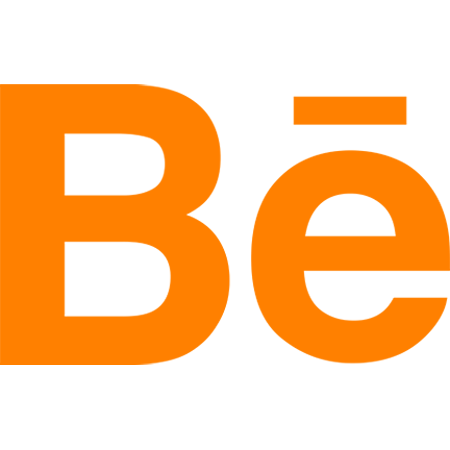
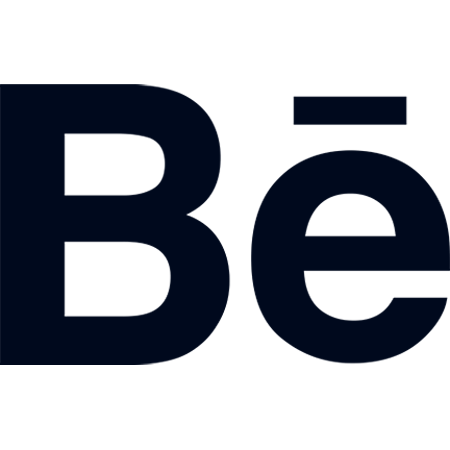
Atualizei icones

diff --git a/css/style.css b/css/style.css
@@ -84,11 +84,11 @@ div#paginas p:hover a{
 
 div#paginas p a {
     text-decoration: none;
-    color: var(--laranja);
+    color: var(--azul4);
     padding: 5px 20px;
     border-radius: 30px;
     transition-property: color;
-    transition-duration: .5s;
+    transition-duration: .3s;
 }
 
 #A-linkinicio.dark, #A-linksobremim.dark, #A-linkportfolio.dark{
@@ -186,26 +186,43 @@ img#gato {
     right: 13vw;
     top: 0vh;
 }
-img#logo-capa{
+div#logocapa{
     position: absolute;
-    height: auto;
+    height: 450px;
     width: 450px;
-    top: 30vh;
+    top: 15vh;
     right: 15.5vw;
     z-index: 1;
-    filter: invert(1);
+    background-image: url(../imagens/logolight.png);
+    background-size: cover;
+    background-position: center;
+    transition-property: background-image;
+    transition-duration: .3s;
 }
 
-section#inicio h2 {
+div#logocapa.dark{
+    background-image: url(../imagens/logodark.png);
+
+    
+  
+}
+
+#work-tittle {
     position: absolute;
     width: 100vw;
-    color: var(--branco);
+    color: var(--azul4);
     font-family: Arial, Helvetica, sans-serif;
     bottom: 5vh;
     letter-spacing: 3px;
     text-align: center;
     font-size: 1.1em;
     font-weight: 100;
+}
+
+#work-tittle.dark{
+    color: var(--branco);
+    transition-property: color;
+    transition-duration: .3s;
 }
 
 #orcamento {
@@ -262,37 +279,61 @@ div#complete-name {
 #linkedin {
     width: 30px;
     height: 30px;
-    background-image: url(../imagens/icones/linkedin.png);
+    background-image: url(../imagens/icones/linkedinlight.png);
     background-size: cover;
+    transition-property: background-image;
+    transition-duration: .5s;
+}
+
+#linkedin.dark{
+    background-image: url(../imagens/icones/linkedin.png);
 }
 
 #linkedin:hover, #github:hover, #behance:hover, #instagram:hover{
     transition-property: transform;
-    transition-duration: .5s;
+    transition-duration: 1s;
     transition-timing-function: cubic-bezier(0.215, 0.610, 0.355, 1);
-    transform: scale(1.3) translateY(7px);
+    transform: translateY(-10px);
 }
 
 #github {
     width: 30px;
     height: 30px;
-    background-image: url(../imagens/icones/github.png);
+    background-image: url(../imagens/icones/githublight.png);
     background-size: cover;
     border-radius: 50px;
+    transition-property: background-image;
+    transition-duration: .5s;
+}
+
+#github.dark{
+    background-image: url(../imagens/icones/github.png);
 }
 
 #behance{
     width: 30px;
     height: 30px;
-    background-image: url(../imagens/icones/behance.png);
+    background-image: url(../imagens/icones/behancelight.png);
     background-size: cover;
+    transition-property: background-image;
+    transition-duration: .5s;
+}
+
+#behance.dark{
+    background-image: url(../imagens/icones/behance.png);
 }
 
 #instagram{
     width: 30px;
     height: 30px;
-    background-image: url(../imagens/icones/instagram.png);
+    background-image: url(../imagens/icones/instagramlight.png);
     background-size: cover;
+    transition-property: background-image;
+    transition-duration: .5s;
+}
+
+#instagram.dark{
+    background-image: url(../imagens/icones/instagram.png);
 }
 
 #atuacao {
@@ -363,9 +404,15 @@ div#complete-name {
 }
 
 .texto-atuacao > p {
-    color: var(--branco);
     text-align: justify;
     line-height: 1.2em;
     
 }
 
+.p-atuacao {
+    color: var(--preto);
+}
+
+.p-atuacao.dark{
+    color: var(--branco);
+}

diff --git a/index.html b/index.html
@@ -39,9 +39,11 @@
 
         <img id="gato" class="rellax" data-rellax-speed="3" src="imagens/gato/gato-laranja.png" alt="gato"> <!-- GATO -->
         <div>
-            <h2 class="rellax" data-rellax-speed="0.5">Desenvolvedor Web & Designer Gráfico</h2>
+            <h2 id="work-tittle" class="rellax" data-rellax-speed="0.5">Desenvolvedor Web & Designer Gráfico</h2>
         </div>
-        <img id="logo-capa" class="rellax" data-rellax-speed="1" src="imagens/simbolo-preta.png" alt="logo">
+        <div id="logocapa">
+
+        </div>
         <div id="complete-name" class="rellax" data-rellax-speed="0">
             <span id="titulo-firstname">
                 <span class="rellax" data-rellax-speed="3">V</span>
@@ -82,11 +84,11 @@
             <div class="container-atuacao-txt">
                 <div class="texto-atuacao">
                     <h3>Desenvolvimento Web</h3>
-                    <p>Criação e produção de sites web como Landing Page, Loja Virtual, Portais. acompanhando as tecnologias e tendências do mercado.</p>
+                    <p class="p-atuacao">Criação e produção de sites web como Landing Page, Loja Virtual, Portais. acompanhando as tecnologias e tendências do mercado.</p>
                 </div>
                 <div class="texto-atuacao">
                     <h3>Design Digital</h3>
-                    <p>Criação de designs bonitos para redes sociais, como stories, posts, campanhas para ADS etc...</p>
+                    <p class="p-atuacao">Criação de designs bonitos para redes sociais, como stories, posts, campanhas para ADS etc...</p>
                 </div>
             </div>
         </div>

diff --git a/js/script.js b/js/script.js
@@ -4,6 +4,17 @@ const linkPaginasInicio = document.getElementById('A-linkinicio')
 const linkPaginasSobreMim = document.getElementById('A-linksobremim')
 const linkPaginasPortfolio = document.getElementById('A-linkportfolio')
 const secAtuacao = document.querySelector('section#atuacao')
+
+// Pegar os Icones de redes sociais e imagens
+const logoLinkedin = document.querySelector('div#linkedin')
+const logoGithub = document.querySelector('div#github')
+const logoBehance = document.querySelector('div#behance')
+const logoInstagram = document.querySelector('div#instagram')
+const logoCapa = document.querySelector('div#logocapa')
+const worktittle = document.getElementById('work-tittle')
+
+
+
 chk.addEventListener('change', () => {
         secInicio.classList.toggle('dark')
         secAtuacao.classList.toggle('dark')
@@ -11,4 +22,13 @@ chk.addEventListener('change', () => {
         linkPaginasInicio.classList.toggle('dark')
         linkPaginasSobreMim.classList.toggle('dark')
         linkPaginasPortfolio.classList.toggle('dark')
+        worktittle.classList.toggle('dark')
+
+        //Alterar a cor dos icones
+        logoLinkedin.classList.toggle('dark')
+        logoGithub.classList.toggle('dark')
+        logoBehance.classList.toggle('dark')
+        logoInstagram.classList.toggle('dark')
+        logoCapa.classList.toggle('dark')
+
 })
